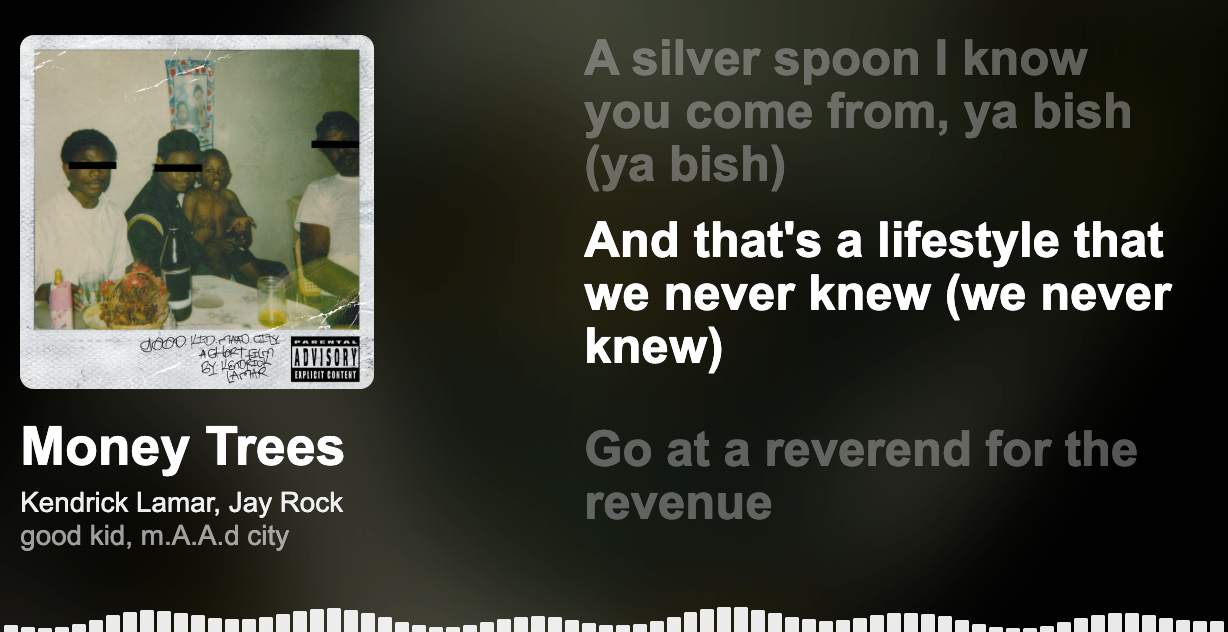
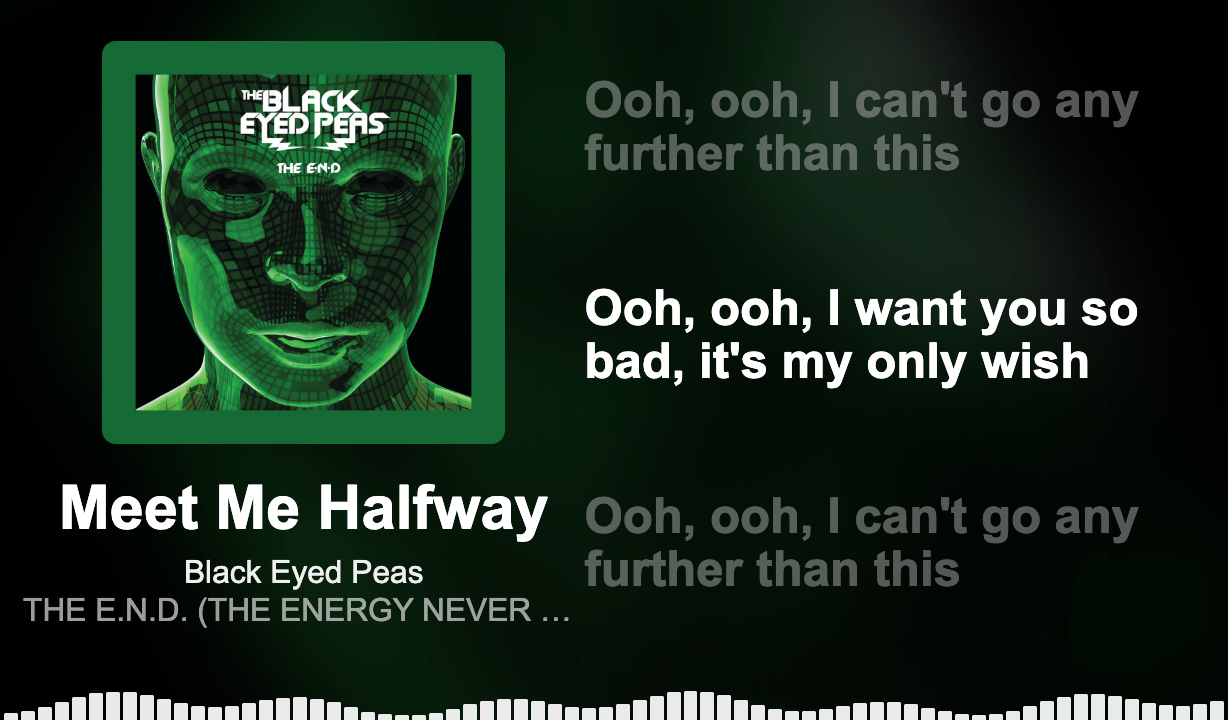
Changed style.css

diff --git a/style.css b/style.css
@@ -73,6 +73,7 @@ button {
     display: flex;
     flex-direction: column;
     justify-content: center;
+    align-items: center;
     min-width: 0;
     height: 100%;
     padding-right: 0;
@@ -113,6 +114,7 @@ button {
 .track-info {
     width: 100%;
     min-width: 0;
+    text-align: center;
 }
 
 .visualizer.cover-only .track-info {
